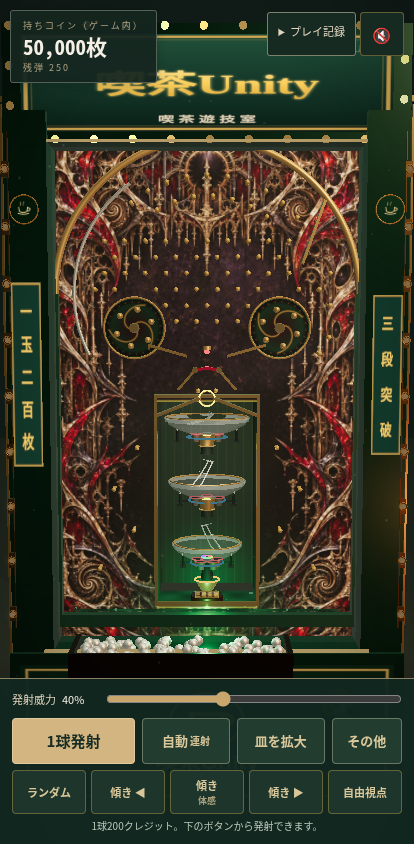
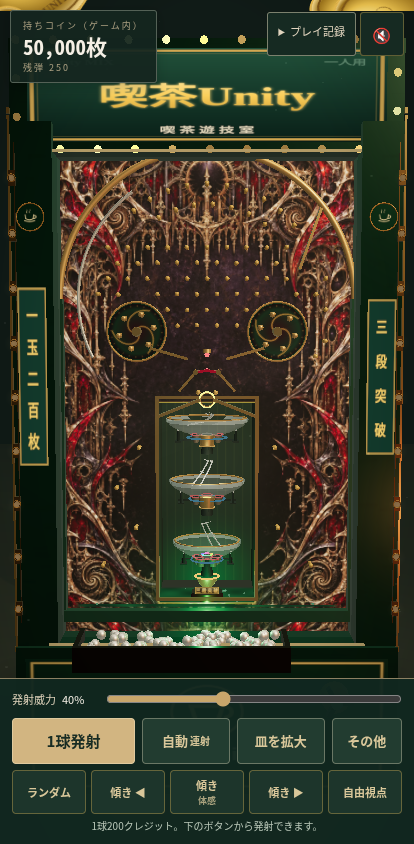
Synchronize sign rails with cabinet lamp events

diff --git a/public/silver-ring/src/fx.js b/public/silver-ring/src/fx.js
@@ -510,11 +510,17 @@ export class FX {
 
     // ---- 霓虹 / 金属导光线 ----
     const mode = this.neonMode;
-    const neonSignature = `${mode}:${reducedMotion}`;
+    const pulse = this.cabinetPulse;
+    const pulseActive = pulse && pulse.age < CABINET_PULSE_SECONDS[pulse.kind];
+    const pulseKey = pulseActive ? `${pulse.kind}:${pulse.tier}:${pulse.win}` : 'idle';
+    const neonSignature = `${mode}:${reducedMotion}:${pulseKey}`;
     if (!reducedMotion || neonSignature !== this._neonSignature) {
       this._neonSignature = neonSignature;
       R.neonMats.forEach((m, i) => {
-        if (mode === 'jackpot') {
+        if (pulseActive) {
+          const gain = pulse.kind === 'jackpot' ? 1.18 : 1.04;
+          m.color.setRGB(cabinetState.rgb[0] * gain, cabinetState.rgb[1] * gain, cabinetState.rgb[2] * gain);
+        } else if (mode === 'jackpot') {
           const b = reducedMotion ? 0.9 : 0.8 + 0.2 * Math.sin(t * 8 + i * 0.42);
           m.color.setRGB(1.35 * b, 1.06 * b, 0.62 * b);
         } else if (mode === 'tension') {
@@ -529,8 +535,6 @@ export class FX {
 
     // ---- 看板灯泡跑马 ----
     if (!this._bulbAcc) this._bulbAcc = 0;
-    const pulse = this.cabinetPulse;
-    const pulseActive = pulse && pulse.age < CABINET_PULSE_SECONDS[pulse.kind];
     const bulbSignature = `${mode}:${reducedMotion}:${pulseActive ? pulse.kind : 'idle'}:${pulseActive ? pulse.tier : 0}:${pulseActive ? pulse.win : false}`;
     if (!reducedMotion) this._bulbAcc = Math.min(0.066, this._bulbAcc + dt);
     if ((!reducedMotion && this._bulbAcc > 0.033)

diff --git a/test/silver_cabinet_lamps_browser.py b/test/silver_cabinet_lamps_browser.py
@@ -46,6 +46,7 @@ with sync_playwright() as p:
           const c = SILVER_GAME.refs.bulbIM.instanceColor.array;
           return Math.max(...Array.from({length:SILVER_GAME.refs.bulbN}, (_, i) => c[i*3+1] - c[i*3]));
         }''')
+        idle_line_palette = page.evaluate('''() => Math.max(...SILVER_GAME.refs.neonMats.map(m => m.color.g - m.color.r))''')
         page.screenshot(path=str(out / f'{w}x{h}-idle.png'))
 
         # Tier 2 reads farther along the rail path than tier 0 without touching game state.
@@ -78,9 +79,11 @@ with sync_playwright() as p:
           const c = SILVER_GAME.refs.bulbIM.instanceColor.array;
           return Math.max(...Array.from({length:SILVER_GAME.refs.bulbN}, (_, i) => c[i*3+1] - c[i*3]));
         }''')
+        event_line_palette = page.evaluate('''() => Math.max(...SILVER_GAME.refs.neonMats.map(m => m.color.g - m.color.r))''')
         assert event_max > idle_max + 0.2, (idle_max, event_max)
         assert event_glow_max > idle_glow_max + 0.08, (idle_glow_max, event_glow_max)
         assert event_bulb_palette > idle_bulb_palette + 0.2, (idle_bulb_palette, event_bulb_palette)
+        assert event_line_palette > idle_line_palette + 0.2, (idle_line_palette, event_line_palette)
         page.screenshot(path=str(out / f'{w}x{h}-event.png'))
 
         page.evaluate("SILVER_GAME.S.manualCamera = 'wide'; SILVER_GAME.S.jackpotLock = true; SILVER_GAME.fx.jackpotOn = true; SILVER_GAME.fx.setNeonMode('jackpot'); SILVER_GAME.fx.pulseCabinet('jackpot', 2, true)")
@@ -125,7 +128,7 @@ with sync_playwright() as p:
         assert page.evaluate('SILVER_GAME.S.fired') == 1
         assert page.evaluate('SILVER_GAME.S.funds') == 49800
         assert not errors, errors
-        rows.append({**initial, 'eventLamp': pulse, 'idleMaxLampColor': idle_max, 'eventMaxLampColor': event_max, 'idleGlowMax': idle_glow_max, 'eventGlowMax': event_glow_max, 'idleMarqueePalette': idle_bulb_palette, 'eventMarqueePalette': event_bulb_palette, 'tierChaseAndMissPalette': True, 'priorityPulse': priority, 'jackpotModePersists': True, 'reducedMotionStatic': True, 'pauseClearsPulse': True, 'singleShot': 1, 'errors': errors})
+        rows.append({**initial, 'eventLamp': pulse, 'idleMaxLampColor': idle_max, 'eventMaxLampColor': event_max, 'idleGlowMax': idle_glow_max, 'eventGlowMax': event_glow_max, 'idleMarqueePalette': idle_bulb_palette, 'eventMarqueePalette': event_bulb_palette, 'idleLinePalette': idle_line_palette, 'eventLinePalette': event_line_palette, 'tierChaseAndMissPalette': True, 'priorityPulse': priority, 'jackpotModePersists': True, 'reducedMotionStatic': True, 'pauseClearsPulse': True, 'singleShot': 1, 'errors': errors})
         page.close()
     for w, h in [(375, 667), (844, 390)]:
         page = browser.new_page(viewport={'width': w, 'height': h}, device_scale_factor=1, has_touch=True, is_mobile=True)

diff --git a/docs/retro-cabinet-lamps-worklog.md b/docs/retro-cabinet-lamps-worklog.md
@@ -5,13 +5,13 @@
 - Existing dirty checkout `/workspace/Unity-Web` and its unrelated H3 changes remain untouched.
 - User-selected direction: first concept, dark emerald cabinet with brass trim and warm/green/champagne lamps.
 - Scope lock: preserve playfield/役物 geometry, physics/settlement, CFG, controls, camera/layout values and audio. Only decorative cabinet appearance and lamp choreography may change.
-- Active implementation: approximately 58 minutes through 18:53 UTC; dedicated 60-minute QA phase: not started. This is a conservative estimate; tool waits, browser startup and idle time are excluded. Browser runs so far are implementation smoke checks, not counted toward the separate QA allowance.
+- Active implementation: approximately 62 minutes through 18:57 UTC; dedicated 60-minute QA phase: not started. This is a conservative estimate; tool waits, browser startup and idle time are excluded. Browser runs so far are implementation smoke checks, not counted toward the separate QA allowance.
 - Baseline: captured at 375/390/414 × 844 in Chromium, same page and play flow. Main reference is `docs/qa/retro-cabinet-lamps/baseline/390x844-idle.png`; initial local-only logo 404 from an incorrect server root was corrected before validating changes.
-- Exterior: dark emerald enamel body with deterministic satin-grain texture, batched brass rails, 18 instanced side lamps with bezels and soft glow, two symmetric coffee medallions, and the existing marquee lights retained. Lower marquee guide line moved to the sign lip to clear its subtitle. The side rails and header bulbs now share event color and chase.
+- Exterior: dark emerald enamel body with deterministic satin-grain texture, batched brass rails, 18 instanced side lamps with bezels and soft glow, two symmetric coffee medallions, and the existing marquee lights retained. Lower marquee guide line moved to the sign lip to clear its subtitle. The side rails, header bulbs, and horizontal sign light bars now share event color/choreography.
 - Lamp state is deterministic and separate from physics. Gate/bowl/sink/jackpot events produce amber/emerald/champagne pulses with progression priority; weaker new events cannot replace an active win/jackpot. Sink miss is amber; deeper bowl entries advance farther. Reduced-motion mode holds static color, disables chase, and avoids repeated instance-buffer uploads. Pause and game over clear temporary pulses.
 - A previous suspicion that the frame loop overwrote jackpot mode was checked against `jackpotLock`; no bug was present and the unnecessary change was reverted.
 - Matched captures: baseline `docs/qa/retro-cabinet-lamps/baseline/390x844-wide-matched.png`, updated `docs/qa/retro-cabinet-lamps/final/390x844-wide-matched.png`; target-width idle/event/jackpot/reduced captures are under `docs/qa/retro-cabinet-lamps/final/`.
-- Latest implementation smoke across 375/390/414×844, 375×667, and 844×390: phase `play`, board children 54, cabinet lamps 18, no horizontal overflow, event pulse priority and stage paths pass, jackpot lock persists, reduced-motion lamp/glow/marquee arrays remain byte-identical between stable frames, pause clears pulses, single shot still deducts 200, and no app JS/page/resource errors. Side-lamp max channel rises from ~0.24 idle to 1.75–2.02 during bowl entry; diffuse-glow max rises from ~0.11 to 0.81–0.93. Header-bulb green-minus-red contrast changes from ~-0.15 in amber idle to +1.40…+1.64 in emerald event state.
+- Latest implementation smoke across 375/390/414×844, 375×667, and 844×390: phase `play`, board children 54, cabinet lamps 18, no horizontal overflow, event pulse priority and stage paths pass, jackpot lock persists, reduced-motion lamp/glow/marquee arrays remain byte-identical between stable frames, pause clears pulses, single shot still deducts 200, and no app JS/page/resource errors. Side-lamp max channel rises from ~0.24 idle to 1.75–2.02 during bowl entry; diffuse-glow max rises from ~0.11 to 0.81–0.93. Header-bulb green-minus-red contrast changes from ~-0.15 idle to +1.40…+1.64 during entry; sign strip green-minus-red changes from ~-0.12 to +0.75.
 - Focused lamp-state/shell-contract tests pass 12/12. Earlier, all silver unit suites except `silver-security.test.js` passed 23/23; the security suite could not resolve `ws` because this isolated worktree has no installed project dependencies. No package was added. `node --check`, Python syntax check, and `git diff --check` pass.
 - Matched 390px renderer count after batching and emblems: main 194 calls / 153,790 triangles; updated 203 calls / 161,046 triangles (+9 calls, +4.72% triangles), render size unchanged. Browser rAF is very slow under software WebGL; this is not a physical handset or hardware-acceleration measurement. At matched camera mode, machine bounds remain `[-1,-0.02,-1.161]` to `[1,3.056,0.839]`, renderer canvas remains 390×844, and board child count remains 54.
 - Current phase decision: continue implementation improvements. The requested 120-minute implementation block is not complete; separate 60-minute QA and production deployment have not started.
